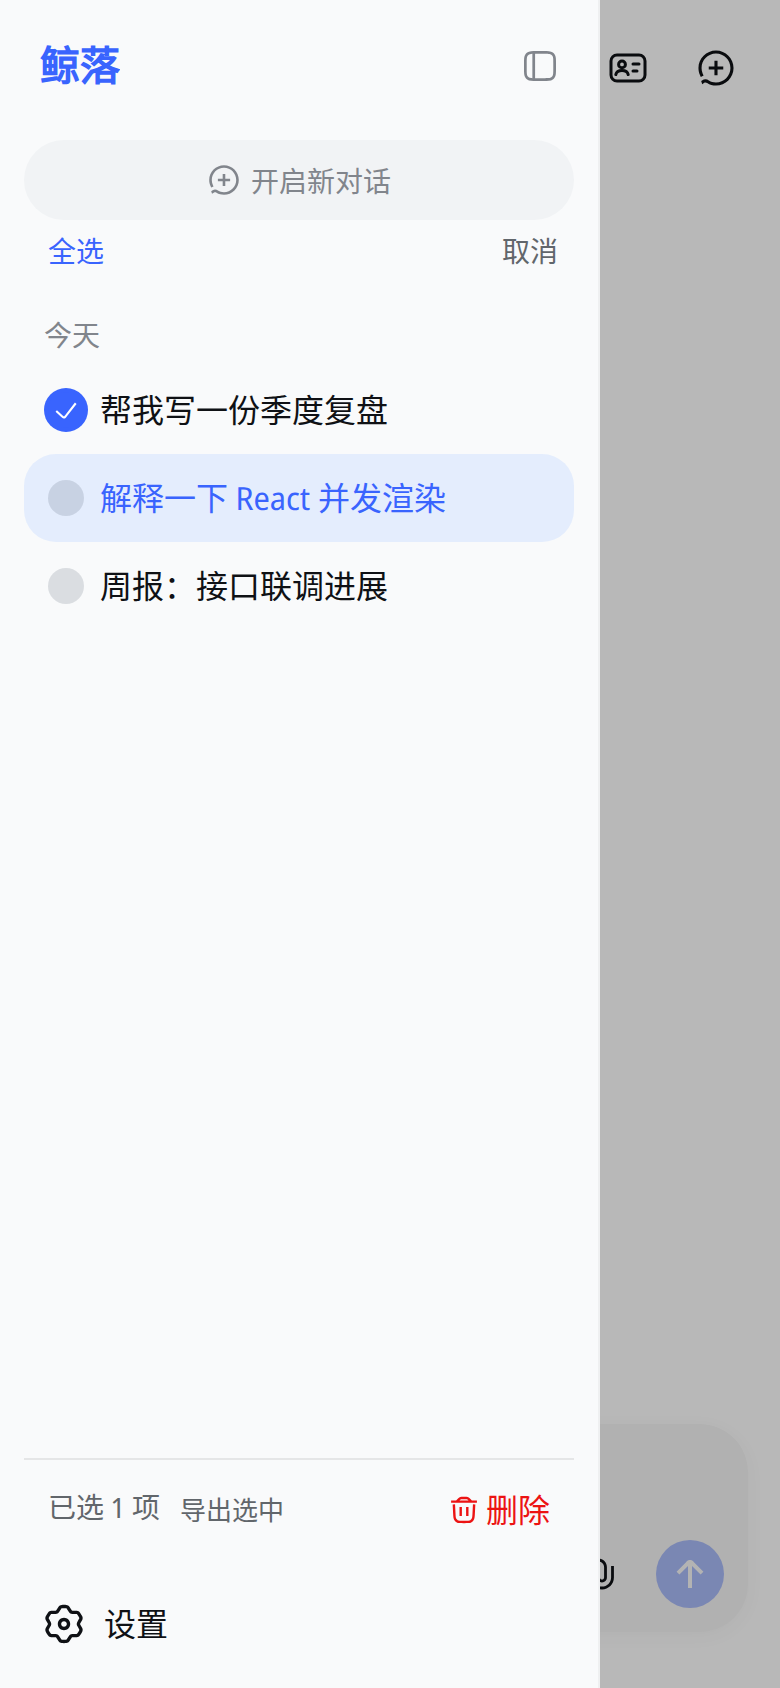
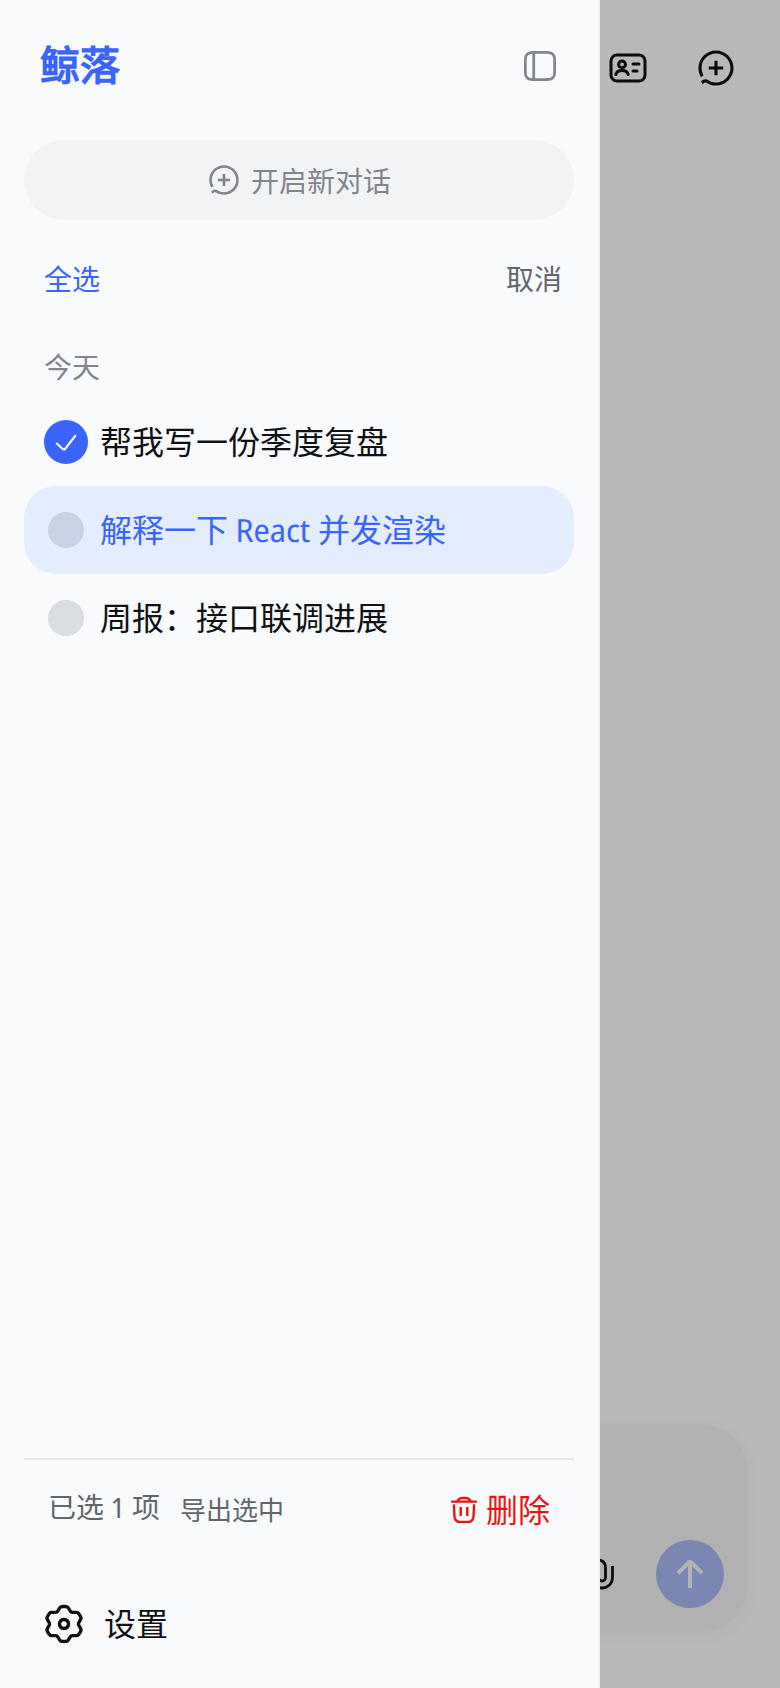
style(sider): 「历史对话」改成分区小标题（12px 三级色），与「开启新对话」拉开 20px
产品两轮反馈：14px/600/primary 的「历史对话」**太大太夺目**，和会话行标题抢层级；
与「开启新对话」按钮之间**间距太小**（4px，打磨到 12px 仍嫌挤）。

- `.listHeaderTitle`：14px/600/primary → **12px/500/label-tertiary**（与分组标题「今天」同族、略强一档），
  `line-height` 仍 22px，盒子高度不变
- `.listHeader`：上内边距 4px → **20px**（iOS 分组列表的分区标题间距），并**写死 height:48px**
  （20 + 22 + 6）：默认态标题与多选态按钮都是 22px 高，两态盒子等高，切换不跳
- 「选择 / 全选 / 取消」：13px、8px 圆角、hover/active 有可见底色（原来只有下划线，没有反馈面）；
  右缘与列表行的右缘对齐（实测差 0px）

验证（`scripts/shot-sider-multiselect.mjs` + 两条新断言，dev server 8126）
- 原 25 条断言**全过**；新增 3 条也全过：
  · 表头文字与「开启新对话」间距 = **19px**（要求 ≥12）
  · 表头右缘与列表行右缘差 = **0px**（要求 ≤2）
  · 多选态表头高度 = 默认态 = **48px**（切换不跳）
- 390×844 三张截图（默认 / 多选 / 深色），深色确认 token 对比度
- tsc / oxlint / check-i18n(1028) / check-css-gap-fallback 全绿

Changed region(s): [[0.2462, 0.2156, 0.5846, 0.4005], [0.0615, 0.1232, 0.2462, 0.4005], [0.6462, 0.1232, 0.7385, 0.1848]]

diff --git a/src/components/sider/Sider.module.css b/src/components/sider/Sider.module.css
@@ -96,7 +96,13 @@
 
 /*
  * 「历史对话」那一行（默认态：标题 + 蓝色「选择」／多选态：蓝色「全选」+「取消」）。
- * 两态共用同一个容器与同一个行高，切换时列表不跳动。
+ * 两态共用同一个容器与同一个行高（12 + 22 + 6 = 40px，两态都由这组值决定），切换时列表不跳动。
+ *
+ * 上内边距 20px：4px 时几乎贴在「开启新对话」按钮下面、12px 仍嫌挤（产品两轮反馈），
+ * 现在按 iOS 分组列表的分区标题间距处理。
+ * 左右不再留内边距：左缘由子元素对齐（标题裸文字 / 左侧按钮用负外边距抵消自身内边距），
+ * 右缘则让右侧按钮的盒子右边界与列表行盒子的右边界重合（行的 `padding-right` 是 6px，
+ * 按钮自身也有 6px 内边距 → 文字右缘正好落在行的内容右缘上）。
  */
 .listHeader {
   display: flex;
@@ -104,53 +110,86 @@
   align-items: center;
   justify-content: space-between;
   box-sizing: border-box;
-  min-height: 30px;
-  padding: 4px 6px 2px 10px;
+  /* 高度写死 48px（20 padding-top + 22 行高 + 6 padding-bottom）：
+     两种状态（标题 22px / 按钮 22px）盒子必须等高，否则切进多选态会跳 2px。 */
+  height: 48px;
+  padding: 20px 0 6px 10px;
 }
 
+/*
+ * 分区标题（历史对话）：做成**分区小标题**而不是行标题 ——
+ * 产品两轮反馈「字体太大太夺目」：14px/600/primary 会和会话行标题抢层级。
+ * 现在 12px / 500 / label-tertiary，与分组标题（今天）同族但略强一档；
+ * `line-height` 仍保 22px，盒子高度不变 → 多选态（按钮 22px）表头高度与默认态相等，切换不跳。
+ */
 .listHeaderTitle {
   min-width: 0;
   overflow: hidden;
-  font-size: 14px;
+  font-size: 12px;
   line-height: 22px;
   font-weight: 500;
+  letter-spacing: 0.02em;
   white-space: nowrap;
   text-overflow: ellipsis;
-  color: var(--dsw-alias-label-primary);
+  color: var(--dsw-alias-label-tertiary);
 }
 
-/* 蓝色文字链接（选择 / 全选）：按钮元素但按链接长相呈现 */
+/*
+ * 蓝色文字链接（选择 / 全选）：按钮元素但按文字按钮呈现。
+ * 13px + 6px 左右内边距 + 8px 圆角，`height` 写死 22px 与标题行同高 → 表头两态等高；
+ * hover / active 有可见底色（原来只有下划线，点上去没有反馈面）。
+ */
 .listHeaderLink {
+  display: inline-flex;
   flex-shrink: 0;
-  padding: 2px 2px;
+  align-items: center;
+  box-sizing: border-box;
+  height: 22px;
+  padding: 0 6px;
   border: 0;
-  border-radius: 6px;
+  border-radius: 8px;
   background: none;
   color: var(--dsw-alias-brand-text);
   font: inherit;
   font-size: 13px;
-  line-height: 20px;
+  font-weight: 400;
+  line-height: 22px;
+  white-space: nowrap;
   cursor: pointer;
 
-  &:hover {
-    text-decoration: underline;
+  &:hover,
+  &:active {
+    background-color: var(--dsw-alias-interactive-bg-hover);
   }
 }
 
-/* 「取消」：右侧的次要动作，不着色（设计稿右图是中性文字） */
+/* 多选态里「全选」是表头的第一个子元素：抵消自身 6px 内边距，让它的文字左缘与行标题左缘齐 */
+.listHeader > .listHeaderLink:first-child {
+  margin-left: -6px;
+}
+
+/* 「取消」：右侧的次要动作，不着色（设计稿右图是中性文字），尺寸/圆角/hover 面与「选择」一致 */
 .listHeaderCancel {
+  display: inline-flex;
   flex-shrink: 0;
-  padding: 2px 2px;
+  align-items: center;
+  box-sizing: border-box;
+  height: 22px;
+  padding: 0 6px;
   border: 0;
-  border-radius: 6px;
+  border-radius: 8px;
   background: none;
   color: var(--dsw-alias-label-secondary);
   font: inherit;
   font-size: 13px;
-  line-height: 20px;
+  font-weight: 400;
+  line-height: 22px;
+  white-space: nowrap;
   cursor: pointer;
 
-  &:hover {
+  &:hover,
+  &:active {
+    background-color: var(--dsw-alias-interactive-bg-hover);
     color: var(--dsw-alias-label-primary);
   }
 }
